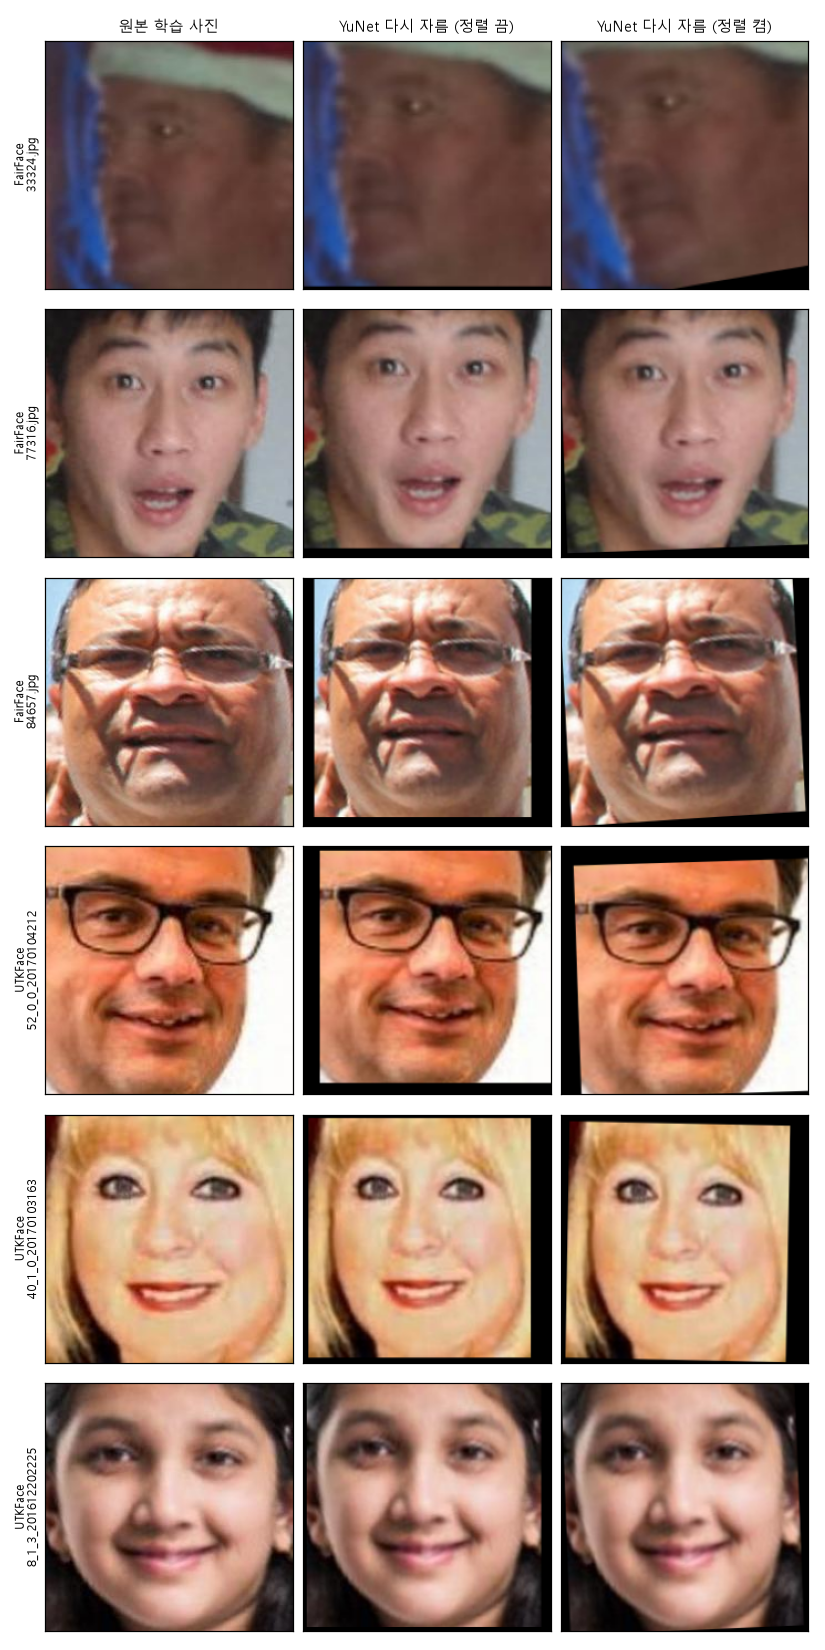
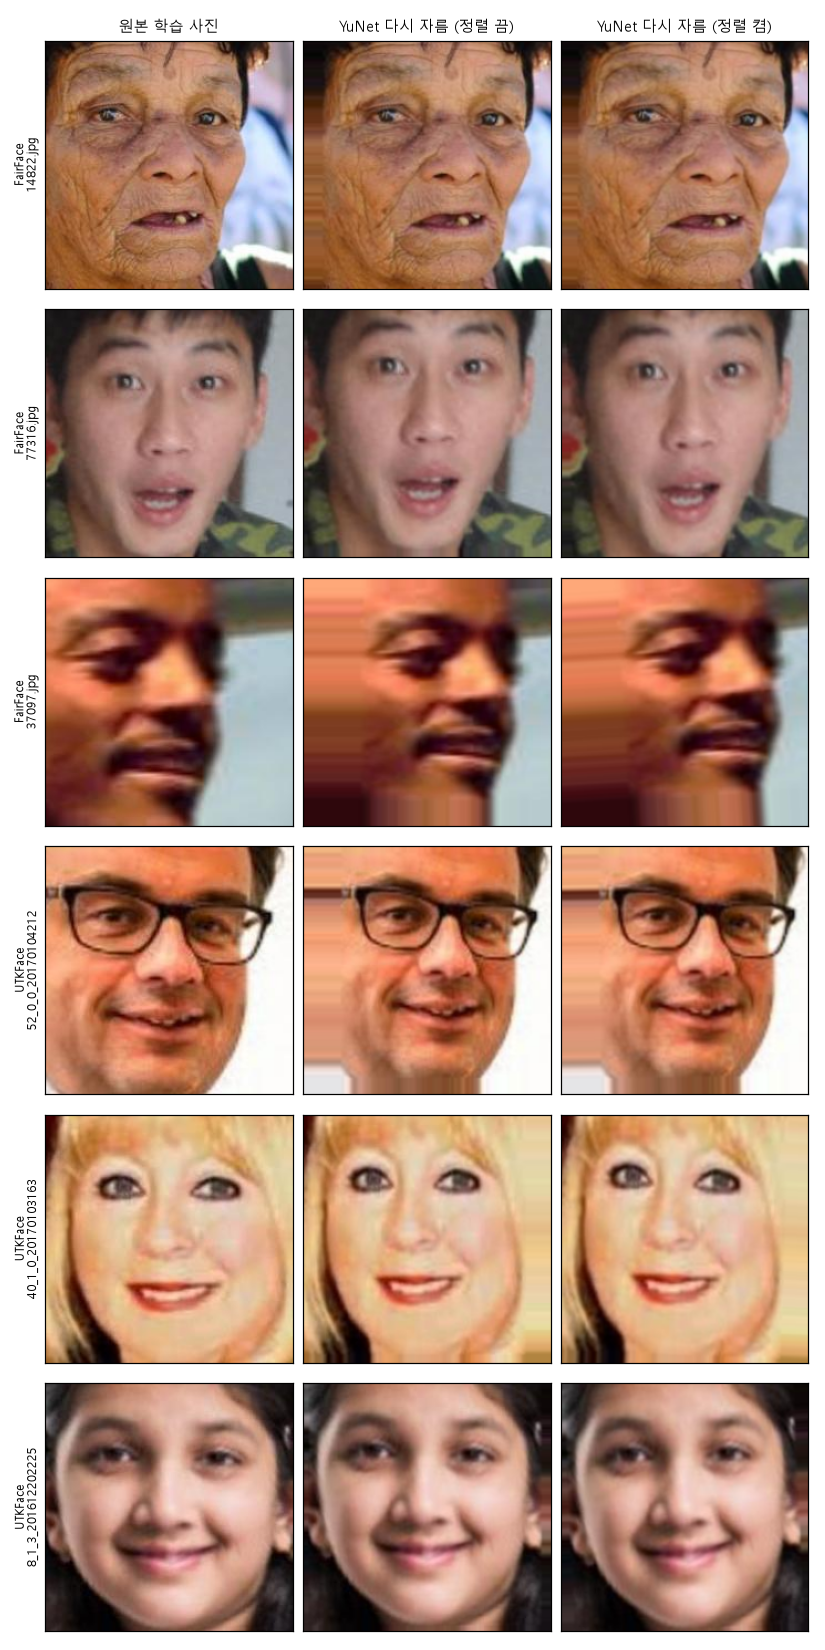
작은CNN 시연: 사진 밖 테두리를 가장자리 복제로 변경 + 여백 재측정
- face_align.py: 검출 전 테두리·정렬 회전을 BORDER_REPLICATE로 (검은 띠 제거), 여백 다시 잰 값으로 교체
- 크롭 예시 그림 다시 만듦, 합성 사진 30장 일치율 이전/이후 비교
- 개발일지: 작은 CNN이 크롭 변화에 가장 약하다는 해석, 시연 사진 교체(17835 → 32069), exit 127 원인
- app_gradio.py 주석 정리
- 재학습 없음, test.csv 미사용

diff --git a/작은CNN/app_gradio.py b/작은CNN/app_gradio.py
@@ -27,7 +27,7 @@ import tempfile
 import time
 from pathlib import Path
 
-# ponytail: 앱을 2개 동시에 띄우면 나중 것이 먼저 것의 폴더를 지움 — 시연은 1개만 띄우므로 이대로 둠
+# 주의: 앱을 2개 동시에 띄우면 나중 것이 먼저 것의 폴더를 지움 — 시연은 1개만 띄우므로 이대로 둠
 for old in Path(tempfile.gettempdir()).glob("face_age_gradio_*"):   # 강제 종료로 남은 예전 실행의 임시 폴더 삭제
     shutil.rmtree(old, ignore_errors=True)
 TMP = Path(tempfile.mkdtemp(prefix="face_age_gradio_"))
